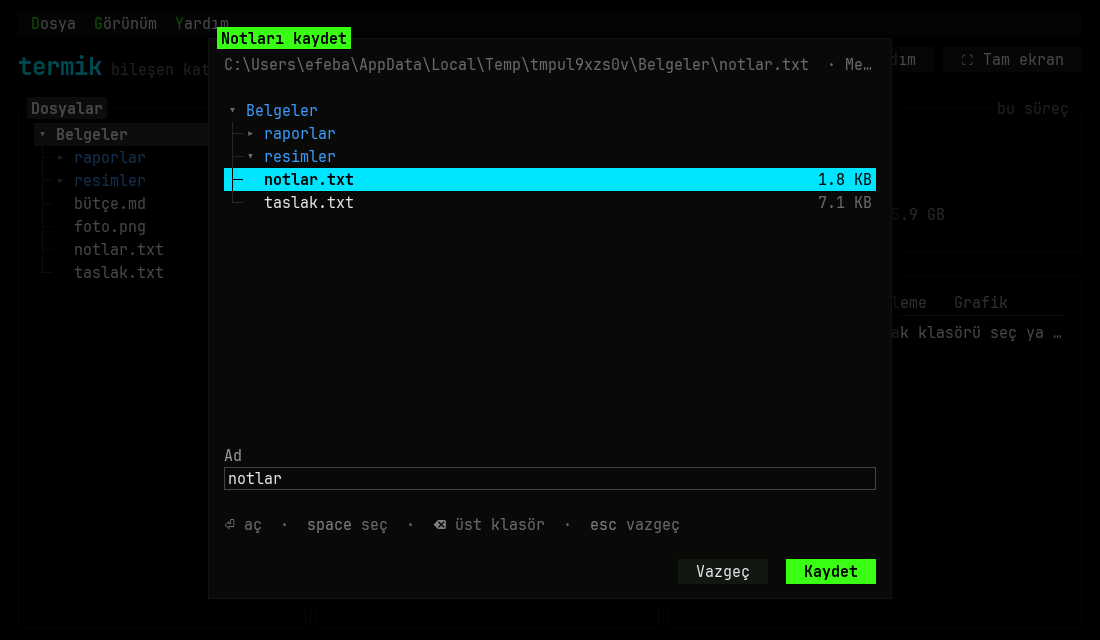
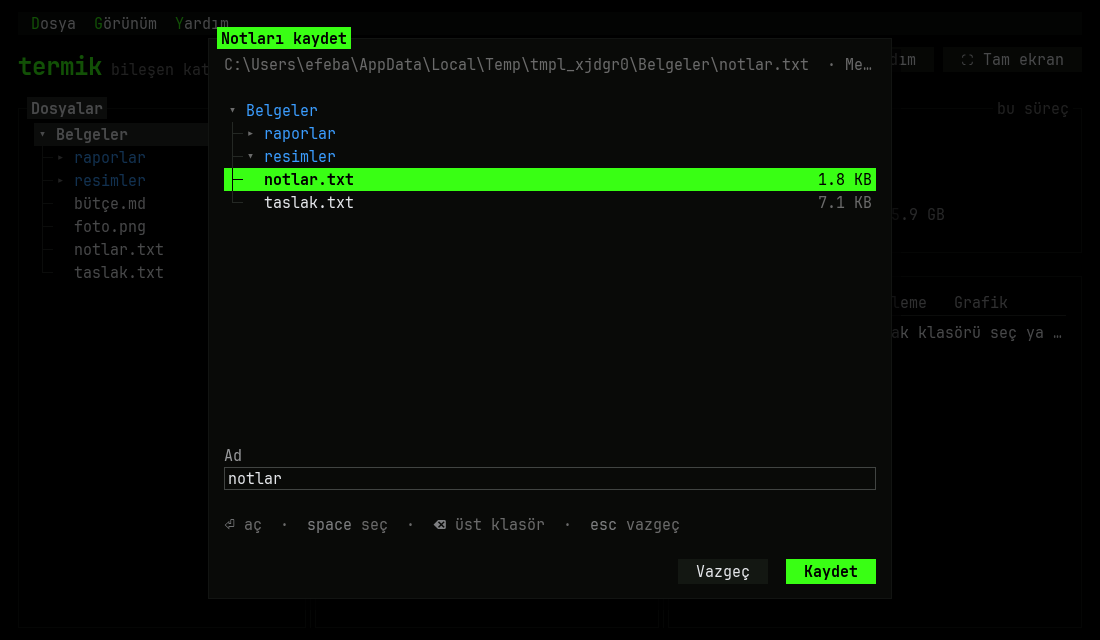
Hazır temalar iki renkli: birincil ve ikincil
Palet uzunluğu temaya bağlı; make_theme verilen kadar renk kurar (tek renk
verilirse ikincisi türetilir, üçüncül eklenmez). Üçüncül isteyen öge iki
renkli temada birincile döner. Testler, belgeler ve ekran görüntüleri güncel.

Changed region(s): [[0.1855, 0.25, 0.8036, 0.3125], [0.4945, 0.0938, 0.5873, 0.125], [0.0, 0.0938, 0.0927, 0.125]]

diff --git a/termik/theme.py b/termik/theme.py
@@ -63,7 +63,7 @@ class Theme:
     # vurgular ve durum renkleri
     accent: Color   # birincil renk
     accent2: Color  # ikincil
-    accent3: Color  # üçüncül
+    accent3: Color | None  # üçüncül; iki renkli temada None (üçüncül isteyen birincile döner)
     red: Color
     green: Color
     yellow: Color
@@ -101,7 +101,9 @@ class Theme:
 
     @property
     def palette(self) -> tuple[Color, ...]:
-        """Temanın renkleri sırayla: birincil, ikincil, üçüncül, (dördüncül…)."""
+        """Temanın renkleri sırayla: birincil, ikincil, (üçüncül, dördüncül…). Hazır temalar iki renklidir."""
+        if self.accent3 is None:
+            return (self.accent, self.accent2)
         return (self.accent, self.accent2, self.accent3, *self.extra)
 
     def slot(self, n: int) -> Color:
@@ -119,7 +121,8 @@ class Theme:
                 return None
         name = _ALIASES.get(name, name)
         if name in _COLOR_FIELDS:
-            return getattr(self, name)
+            value = getattr(self, name)
+            return self.slot(3) if value is None else value  # iki renkli temada accent3 → birincil
         for names in (SLOT_NAMES, _SLOT_TR):
             if name in names:
                 return self.slot(names.index(name) + 1)
@@ -140,9 +143,10 @@ class Theme:
 
     def tinted(self, spec) -> Theme:
         """Bu temanın, vurgu rengi spec olan kopyası: bir öge kendi rengiyle çizilirken kullanılır.
-        Sıra numarası verilirse ikincil ve üçüncül de paletteki sırayı izler (2 → 2, 3, 1)."""
+        Sıra numarası verilirse ikincil ve üçüncül de paletteki sırayı izler (2 → 2, 3, 1; iki renkte 2 → 2, 1)."""
         if isinstance(spec, int) and not isinstance(spec, bool):
-            return replace(self, accent=self.slot(spec), accent2=self.slot(spec + 1), accent3=self.slot(spec + 2))
+            third = None if self.accent3 is None else self.slot(spec + 2)
+            return replace(self, accent=self.slot(spec), accent2=self.slot(spec + 1), accent3=third)
         color = self.resolve(spec)
         return self if color is None or color == self.accent else replace(self, accent=color)
 
@@ -179,9 +183,10 @@ def make_theme(name: str, colors=None, *, accent=None, accent2=None, accent3=Non
 
         ui.make_theme("deniz", ["#38bdf8", "#f472b6", "#a3e635", "#fbbf24"])   # birincil, ikincil, …
 
-    colors birincil, ikincil, üçüncül ve isteğe bağlı sonraki renklerdir ("#rrggbb" ya da (r, g, b));
-    accent=, accent2=, accent3= tek tek de verilebilir. Üçten az renk verilirse eksikler renk çemberinde
-    döndürülerek türetilir. ok, warn, err durum renkleri; neutral soluk yazı tonu (ikincil yazı bununla
+    colors birincil, ikincil ve isteğe bağlı üçüncül, dördüncül… renklerdir ("#rrggbb" ya da (r, g, b));
+    accent=, accent2=, accent3= tek tek de verilebilir. Tema kaç renk verildiyse o kadar renklidir; tek
+    renk verilirse ikincisi renk çemberinde döndürülerek türetilir. Paletin yetmediği sıra (üçüncül
+    isteyen öge iki renkli temada) baştan döner, yani birincil renkle çizilir. ok, warn, err durum renkleri; neutral soluk yazı tonu (ikincil yazı bununla
     ana yazı renginin arasından türetilir). Zemin varsayılan olarak saf siyahtır; background başka bir
     taban verir. Zemin olduğu gibi kalır; panel, yükseltilmiş yüzey ve çizgi birincil renge tint oranında
     çekilir, böylece her tema kendi havasını taşır.
@@ -198,7 +203,7 @@ def make_theme(name: str, colors=None, *, accent=None, accent2=None, accent3=Non
         raise ValueError("make_theme: en az birincil renk gerekli")
     a = given[0]
     second = given[1] if len(given) > 1 and given[1] is not None else _hue_shift(a, 60)
-    third = given[2] if len(given) > 2 and given[2] is not None else _hue_shift(a, 180)
+    third = given[2] if len(given) > 2 and given[2] is not None else None  # üçüncül yalnızca istenirse
     bases = dict(_BASE)
     if background is not None:
         bg = hex_color(background)
@@ -219,20 +224,20 @@ def make_theme(name: str, colors=None, *, accent=None, accent2=None, accent3=Non
 # Siyah zeminli, parlak ve hafif cırtlak terminal renkleri; ardından audn-cli'daki altı tema (aynı
 # renkler, siyah zemin). Her biri üç renkli: birincil, ikincil, üçüncül.
 THEMES: dict[str, Theme] = {t.name: t for t in (
-    make_theme("fosfor", ["#39ff14", "#ffb000", "#00e5ff"], ok="#39ff14", warn="#ffd000", err="#ff3b30",
+    make_theme("fosfor", ["#39ff14", "#ffb000"], ok="#39ff14", warn="#ffd000", err="#ff3b30",
                neutral="#6b6b6b", blue="#3b9dff", magenta="#ff4dff", cyan="#00e5ff"),
-    make_theme("ansi", ["#00ffff", "#ff00ff", "#ffff00"], ok="#00ff00", warn="#ffff00", err="#ff3030",
+    make_theme("ansi", ["#00ffff", "#ff00ff"], ok="#00ff00", warn="#ffff00", err="#ff3030",
                neutral="#707070", blue="#5c5cff", magenta="#ff00ff", cyan="#00ffff"),
-    make_theme("sentetik", ["#ff2a6d", "#05d9e8", "#f9f871"], ok="#01ff89", warn="#ffb000", err="#ff3355",
+    make_theme("sentetik", ["#ff2a6d", "#05d9e8"], ok="#01ff89", warn="#ffb000", err="#ff3355",
                neutral="#6d6a7c", blue="#4d7cff", magenta="#ff4dd2", cyan="#05d9e8"),
-    make_theme("kehribar", ["#ffb000", "#ff5f00", "#ffe680"], ok="#9cff00", warn="#ffd000", err="#ff3b30",
+    make_theme("kehribar", ["#ffb000", "#ff5f00"], ok="#9cff00", warn="#ffd000", err="#ff3b30",
                neutral="#7a6a50", blue="#5fafff", magenta="#ff5fd7", cyan="#5fffd7"),
-    make_theme("okyanus", ["#38bdf8", "#818cf8", "#fdba74"], ok="#34d399", warn="#fbbf24", err="#f87171", neutral="#64748b"),
-    make_theme("günbatımı", ["#fb923c", "#f472b6", "#a78bfa"], ok="#4ade80", warn="#facc15", err="#ef4444", neutral="#78716c"),
-    make_theme("orman", ["#4ade80", "#a3e635", "#fbbf24"], ok="#22c55e", warn="#eab308", err="#f87171", neutral="#6b7280"),
-    make_theme("neon", ["#22d3ee", "#e879f9", "#a3e635"], ok="#4ade80", warn="#fde047", err="#fb7185", neutral="#71717a"),
-    make_theme("mono", ["#e5e7eb", "#9ca3af", "#cbd5e1"], ok="#d1d5db", warn="#9ca3af", err="#f87171", neutral="#6b7280", tint=0),
-    make_theme("lavanta", ["#c084fc", "#f0abfc", "#6ee7b7"], ok="#86efac", warn="#fcd34d", err="#fb7185", neutral="#6b7280"),
+    make_theme("okyanus", ["#38bdf8", "#fdba74"], ok="#34d399", warn="#fbbf24", err="#f87171", neutral="#64748b"),
+    make_theme("günbatımı", ["#fb923c", "#f472b6"], ok="#4ade80", warn="#facc15", err="#ef4444", neutral="#78716c"),
+    make_theme("orman", ["#4ade80", "#fbbf24"], ok="#22c55e", warn="#eab308", err="#f87171", neutral="#6b7280"),
+    make_theme("neon", ["#22d3ee", "#e879f9"], ok="#4ade80", warn="#fde047", err="#fb7185", neutral="#71717a"),
+    make_theme("mono", ["#e5e7eb", "#9ca3af"], ok="#d1d5db", warn="#9ca3af", err="#f87171", neutral="#6b7280", tint=0),
+    make_theme("lavanta", ["#c084fc", "#6ee7b7"], ok="#86efac", warn="#fcd34d", err="#fb7185", neutral="#6b7280"),
 )}
 
 
@@ -255,7 +260,7 @@ ROLES: dict[str, int | str] = {
     "OptionList": 1, "Panel": 1, "MenuBar": 1, "Split": 1, "Canvas": 1, "Chart": 1,
     # ikincil: değer ve ilerleme
     "ProgressBar": 2, "Slider": 2, "Sparkline": 2,
-    # üçüncül: gezinme ve yapı
+    # üçüncül: gezinme ve yapı (hazır temalar iki renkli: bunlar orada birincil renkle çizilir)
     "Tabs": 3, "Tree": 3, "Table": 3, "Header": 3, "StatusBar": 3, "KeyBar": 3,
 }
 

diff --git a/tests/test_colors.py b/tests/test_colors.py
@@ -1,4 +1,4 @@
-"""Renkler ve paneller: üç renkli palet, tema oluşturma, öge türü rolleri, öge başına renk, panel
+"""Renkler ve paneller: iki renkli hazır temalar, tema oluşturma, öge türü rolleri, öge başına renk, panel
 çerçevesi ve odak işareti, tam ekran düğmesi. Pencere açmadan Pilot ile.
 
     python tests/test_colors.py
@@ -34,10 +34,16 @@ def colours(surface, rect):
     return [surface.get_at((x, y)) for x in range(rect.left, rect.right) for y in range(rect.top, rect.bottom)]
 
 
-def test_palette_names_and_three_colors():
+UCLU = ui.make_theme("üçlü", ["#38bdf8", "#818cf8", "#fdba74"])  # üç renkli kendi tema (kaydedilmez)
+
+
+def test_palette_names_and_two_colors():
     for name, theme in THEMES.items():
-        assert len(theme.palette) == 3 and len(set(theme.palette)) == 3, name  # her tema üç ayrı renk
-    th = THEMES["okyanus"]
+        assert len(theme.palette) == 2 and len(set(theme.palette)) == 2, name  # hazır temalar iki ayrı renk
+    two = THEMES["fosfor"]  # üçüncül isteyen birincile döner
+    assert two.accent3 is None and two.resolve(3) == two.resolve("tertiary") == two.resolve("accent3") == two.accent
+    assert two.tinted(2).palette == (two.accent2, two.accent)
+    th = UCLU
     for spec, expected in ((1, th.accent), (2, th.accent2), (3, th.accent3), (4, th.accent),
                            ("primary", th.accent), ("secondary", th.accent2), ("tertiary", th.accent3),
                            ("birincil", th.accent), ("ikincil", th.accent2), ("üçüncül", th.accent3),
@@ -53,8 +59,8 @@ def test_make_and_register_theme():
     t = ui.make_theme("deneme-dört", ["#ff0000", "#00ff00", "#0000ff", "#ffff00"], neutral="#777777")
     assert t.palette == ((255, 0, 0), (0, 255, 0), (0, 0, 255), (255, 255, 0))
     assert t.resolve("quaternary") == t.resolve("dördüncül") == t.resolve(4) == (255, 255, 0)
-    one = ui.make_theme("tek", ["#3366ff"])  # eksikler renk çemberinde türetilir
-    assert len(set(one.palette)) == 3
+    one = ui.make_theme("tek", ["#3366ff"])  # ikincisi renk çemberinde türetilir, üçüncül eklenmez
+    assert len(set(one.palette)) == 2 and one.accent3 is None
     dark = ui.make_theme("koyu", accent="#22aa88", background="#000000")
     assert dark.bg[0] < 10 and dark.accent == hex_color("#22aa88")
     try:
@@ -82,7 +88,7 @@ class Renkli(ui.App):
 
 def test_roles_and_per_element_color():
     async def main():
-        app = Renkli(theme="okyanus")  # fosfor'da birincil ile "green" aynı neon yeşil
+        app = Renkli(theme=UCLU)  # üç renkli tema; fosfor'da birincil ile "green" aynı neon yeşil
         async with app.run_test() as pilot:
             th = app.theme
             app.query_one("#bar").progress = 1.0
@@ -104,9 +110,9 @@ def test_roles_and_per_element_color():
             assert any(near(c, th.green) for c in fill("#b2"))  # öge kendi rengini korur
             app.set_roles(ProgressBar=None, Button=None)  # varsayılana dön
             assert app.roles["ProgressBar"] == ui.ROLES["ProgressBar"]
-            app.set_theme("lavanta")  # roller temadan bağımsız: yeni temanın üçüncülü
+            app.set_theme("lavanta")  # roller temadan bağımsız; iki renkli temada üçüncül birincile döner
             await pilot.pause()
-            assert any(near(c, THEMES["lavanta"].accent3) for c in fill("#b3"))
+            assert any(near(c, THEMES["lavanta"].accent) for c in fill("#b3"))
             assert not app._errors
 
         class Ozel(Renkli):

diff --git a/tests/test_windows.py b/tests/test_windows.py
@@ -461,14 +461,15 @@ def test_demo_toolbar_styles_roles_and_own_theme():
             assert app.theme.frame == following
             values = w.query_one("#role-1", ui.Select)  # "Değerler" grubu: ilerleme çubuğu, kaydırıcı
             await pilot.click(values)
-            await pilot.press("down", "enter")
-            assert app.roles["ProgressBar"] == app.roles["Slider"] == 3
+            assert values.options == ["1 · birincil", "2 · ikincil"]  # hazır temalar iki renkli
+            await pilot.press("up", "enter")
+            assert app.roles["ProgressBar"] == app.roles["Slider"] == 1
             await pilot.click(w.query_one("#gradient", ui.Checkbox))  # renk geçişi: varsayılan kapalı
             assert app.theme.gradient
             app.set_theme("gece")  # demonun kendi teması: dört renk, seçenekler de dörde çıkar
             await pilot.pause()
             assert "gece" in THEMES and len(app.theme.palette) == 4
-            assert len(values.options) == 4 and values.index == 2
+            assert len(values.options) == 4 and values.index == 0
             assert w.query_one("#theme", ui.Select).value == "gece"
             assert not app._errors
     run(main())

diff --git a/README.md b/README.md
@@ -522,6 +522,10 @@ renkle çizileceği temadan bağımsız `ROLES` tablosunda; her öge ayrıca `co
 çerçeveleri soluk (`frame = "faint"`); içinde odak olan panelde yalnızca başlık vurgu rengine döner
 (`focus = "title"`), çerçeve yanmaz. Görünür tam ekran düğmesi: `ui.FullscreenButton`.
 
+**İki renk turu:** hazır temalar iki renkli (birincil, ikincil); terminaldeki gibi az renk daha
+derli toplu duruyor. Üçüncül rolündeki ögeler (sekmeler, ağaç, tablo, başlık) bu temalarda birincile
+döner. `make_theme` verilen kadar renk kurar; üç, dört renkli tema yapmak hâlâ serbest.
+
 **Siyah zemin turu:** terminal havası için bütün temalar saf siyah zeminli; dört yeni parlak, hafif
 cırtlak tema (`fosfor`, `ansi`, `sentetik`, `kehribar`) eklendi, varsayılan `fosfor`. Eski altı tema
 aynı renklerle siyah zemine geçti. Çubuk, kaydırıcı, mini grafik ve logo artık düz renkte
@@ -530,7 +534,7 @@ zemin kurar, `background=` başka zemin verir.
 
 ## Görünüm ayarları
 
-Renk teması (`THEMES`: `fosfor` (varsayılan: neon yeşil, kehribar, camgöbeği), `ansi`, `sentetik`, `kehribar`, `okyanus`, `günbatımı`, `orman`, `neon`, `mono`, `lavanta`; hepsi saf siyah zeminli) ile biçim belirteçleri birbirinden bağımsızdır; `App(theme=…, density=…,
+Renk teması (`THEMES`: `fosfor` (varsayılan: neon yeşil ve kehribar), `ansi`, `sentetik`, `kehribar`, `okyanus`, `günbatımı`, `orman`, `neon`, `mono`, `lavanta`; hepsi saf siyah zeminli) ile biçim belirteçleri birbirinden bağımsızdır; `App(theme=…, density=…,
 title=…)` ya da çalışırken `app.set_theme(…)` ile verilir. Verilmeyenler kullanıcının
 tercihlerinden gelir (aşağıda **Ayarlar**).
 
@@ -565,15 +569,16 @@ prototipin yuvarlak, kart zeminli hali).
 
 ## Renkler
 
-Her tema üç renkten oluşur: **birincil**, **ikincil**, **üçüncül** (gri tonları, zemin ve yazı
-rengi dışında). Hangi öge türünün kaçıncı renkle çizileceği temadan bağımsız bir tabloda (`ui.ROLES`)
+Hazır temalar iki renklidir: **birincil** ve **ikincil** (gri tonları, zemin, yazı ve durum
+renkleri dışında). Kendi temanda üçüncül, dördüncül… de olabilir; paletin yetmediği sıra baştan
+döner, yani hazır temalarda üçüncül isteyen öge birincil renkle çizilir. Hangi öge türünün kaçıncı renkle çizileceği temadan bağımsız bir tabloda (`ui.ROLES`)
 durur; tema değişince ögeler sıralarını korur, yalnızca renkler değişir.
 
 | Sıra | Varsayılan olarak kullanan ögeler |
 |---|---|
 | 1 · birincil | etkileşim ve odak: `Button`, `Input`, `TextArea`, `Select`, `Spinbox`, `Checkbox`, `RadioSet`, `OptionList`, `Panel` (odak), `MenuBar`, `Split`, `Canvas`, `Chart` |
 | 2 · ikincil | değer ve ilerleme: `ProgressBar`, `Slider`, `Sparkline` |
-| 3 · üçüncül | gezinme ve yapı: `Tabs`, `Tree`, `Table`, `Header`, `StatusBar`, `KeyBar` |
+| 3 · üçüncül | gezinme ve yapı: `Tabs`, `Tree`, `Table`, `Header`, `StatusBar`, `KeyBar` (iki renkli temada birincil) |
 
 ```python
 import termik as ui
@@ -595,7 +600,8 @@ Uygulama(theme="deniz").run()
 ```
 
 - **Tema yapmak:** `ui.make_theme(ad, renkler, ok=, warn=, err=, neutral=, background=)`. Renkler
-  `"#rrggbb"` ya da `(r, g, b)`; üçten az verilirse eksikler renk çemberinde türetilir. `App(theme=…)`
+  `"#rrggbb"` ya da `(r, g, b)`; tema kaç renk verildiyse o kadar renklidir, tek renk verilirse
+  ikincisi renk çemberinde türetilir. `App(theme=…)`
   bir `Theme` nesnesi de alır (kendiliğinden kaydedilir).
 - **Rolleri değiştirmek:** sınıfta `ROLES = {…}`, `App(roles={…})` ya da çalışırken
   `app.set_roles(Tabs=2)` (`None` varsayılana döndürür). Anahtar bileşen sınıfının adıdır; alt

diff --git a/docs/rehber.md b/docs/rehber.md
@@ -845,7 +845,7 @@ olmayan bir dosyayı gösterebilir; durum kaydı `run_test` altında yalnızca a
 
 Görünüş üç bağımsız eksende seçilir:
 
-1. **Renk teması** (`theme`): `fosfor` (varsayılan: neon yeşil, kehribar, camgöbeği), `ansi`, `sentetik`, `kehribar`, `okyanus`, `günbatımı`, `orman`, `neon`, `mono`, `lavanta`; hepsi saf siyah zeminli.
+1. **Renk teması** (`theme`): `fosfor` (varsayılan: neon yeşil ve kehribar), `ansi`, `sentetik`, `kehribar`, `okyanus`, `günbatımı`, `orman`, `neon`, `mono`, `lavanta`; hepsi saf siyah zeminli.
 2. **Görünüm kümesi** (`look`): `terminal` (keskin köşe, dolu kutu butonlar) ya da `modern` (yuvarlak,
    kart zeminli).
 3. **Yoğunluk** (`density`): `sıkı`, `dengeli`, `rahat` (varsayılan), `ferah`.
@@ -886,11 +886,12 @@ vermezse onun tercihi geçerli olur. Tema yalnızca uygulamanın kimliği için 
 
 ### 16.1 Renkler: palet, roller, öge başına renk
 
-Her tema üç renkten oluşur: birincil (`accent`), ikincil (`accent2`), üçüncül (`accent3`);
-`make_theme` ile dördüncül ve sonrası da eklenir. Hangi öge türünün kaçıncı renkle çizileceği
+Hazır temalar iki renklidir: birincil (`accent`) ve ikincil (`accent2`). `make_theme` ile üçüncül
+(`accent3`), dördüncül ve sonrası da eklenir; tema kaç renk verildiyse o kadar renklidir. Paletin
+yetmediği sıra baştan döner: iki renkli temada 3 → birincil, `accent3` de birincili verir. Hangi öge türünün kaçıncı renkle çizileceği
 temadan bağımsız `ui.ROLES` tablosundadır: 1 etkileşim (Button, Input, Select, Checkbox…, odak),
 2 değer (ProgressBar, Slider, Sparkline), 3 gezinme ve yapı (Tabs, Tree, Table, Header, StatusBar,
-KeyBar).
+KeyBar; iki renkli temada bunlar birincil renkte).
 
 ```python
 deniz = ui.make_theme("deniz", ["#38bdf8", "#f472b6", "#a3e635", "#fbbf24"])  # 4 renk
